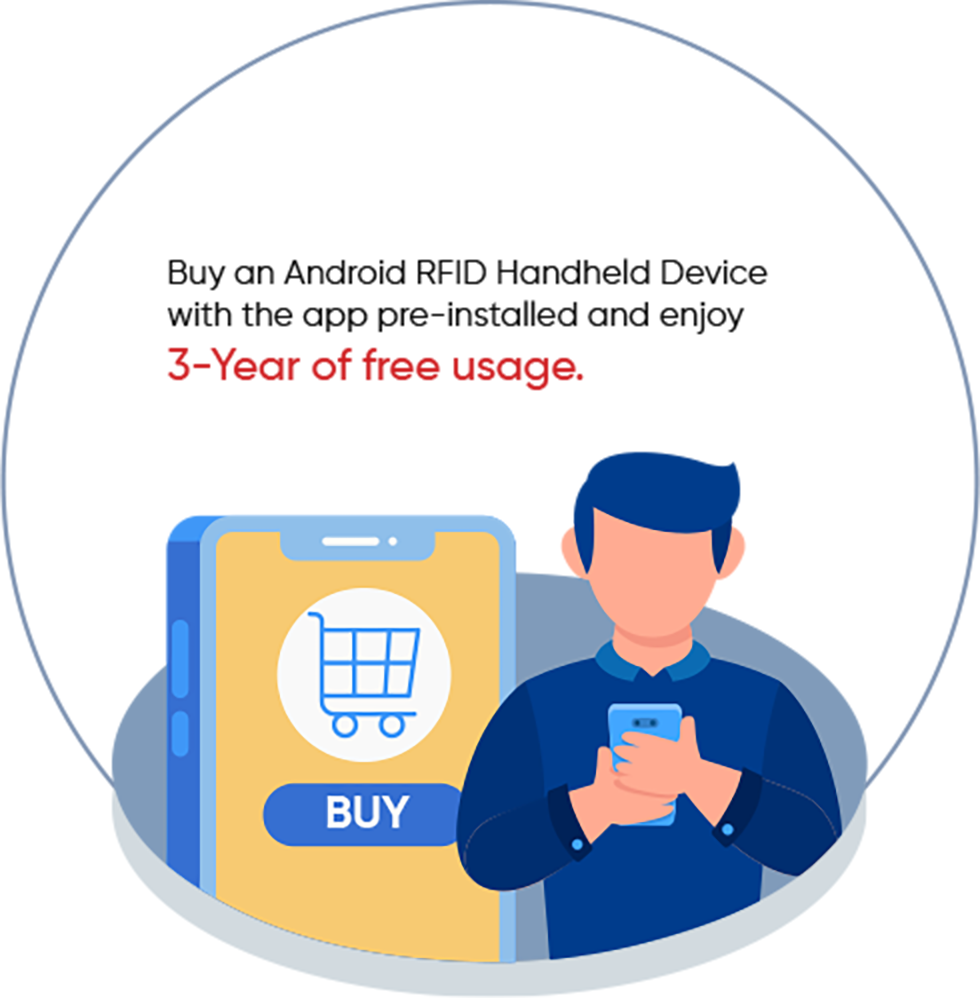
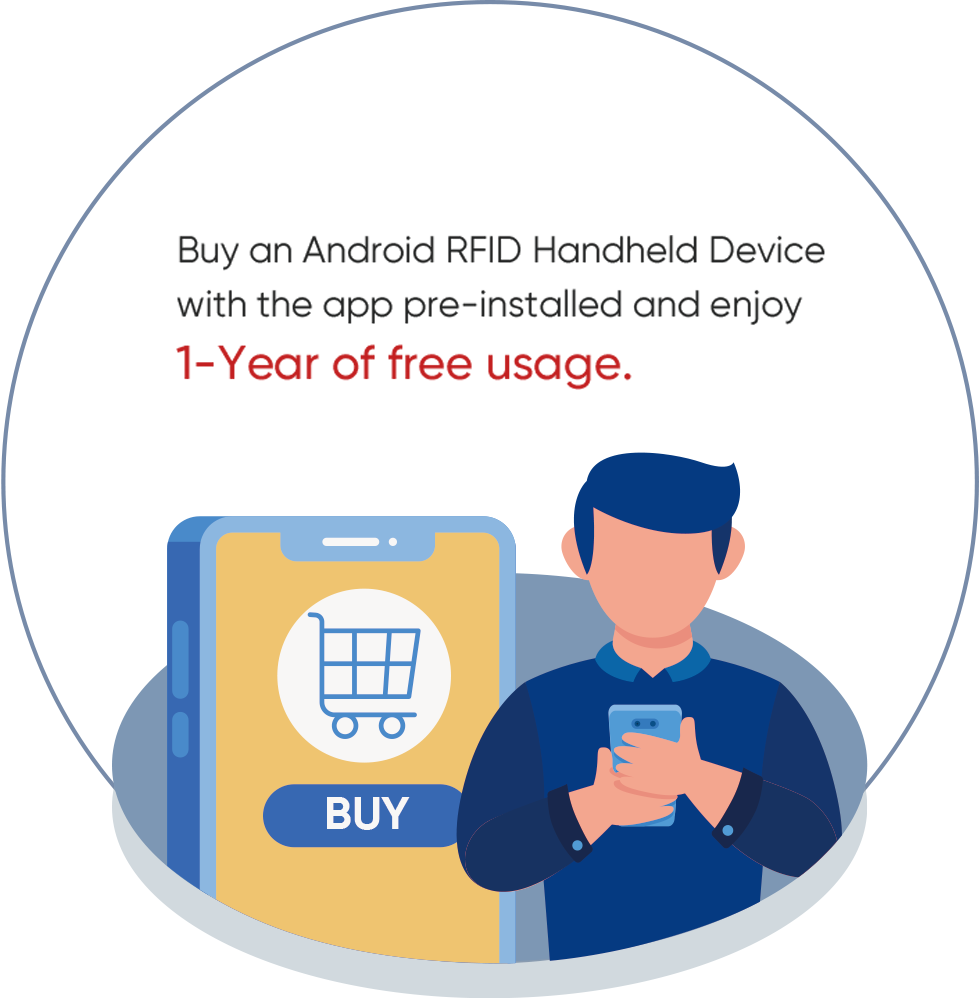
Update index.html

diff --git a/rfid_wms/static/description/index.html b/rfid_wms/static/description/index.html
@@ -49,18 +49,12 @@
 
 
 <section class="oe_container">
-    <p style="font-size:25px; line-height:1.4; margin-top:1em;">
-       2.1&nbsp;If&nbsp;you&nbsp;have&nbsp;an&nbsp;Android&nbsp;UHF&nbsp;RFID&nbsp;Reader:
-    </p>
-        <div class="text-center" style="margin-top:2.5em;">
-        <img src="image3.png" class="img-fluid" alt="" style="width:497px; height:487px; max-width:100%;"
-            referrerpolicy="no-referrer" />
-    </div>
+    <br>
 </section>
 
 <section class="oe_container">
     <p style="font-size:25px; line-height:1.4; margin-top:1em;">
-       2.2&nbsp;If&nbsp;you&nbsp;don't&nbsp;have&nbsp;an&nbsp;Android&nbsp;UHF&nbsp;RFID&nbsp;Reader:
+       2.&nbsp;Buy&nbsp;an&nbsp;<a style="color: rgba(0, 142, 201, 1);" href="https://rfidsolution.com/product/handheld-uhf-rfid-reader-inventrack-rfid-pre-installed-iso-iec-18000-63-865-868mhz-or-902-928mhz/">&nbsp;RFID&nbsp;Handheld&nbsp;Reader:</a>
     </p>
         <div class="text-center" style="margin-top:2.5em;">
         <img src="image5.png" class="img-fluid" alt="" style="width:497px; height:487px; max-width:100%;"

diff --git a/rfid_wms/__manifest__.py b/rfid_wms/__manifest__.py
@@ -17,7 +17,6 @@
         "static/description/main.png",
         "static/description/image1.png",
         "static/description/image2.png",
-        "static/description/image3.png",
         "static/description/image4.png",
         "static/description/image5.png",
         "static/description/sp.png",
